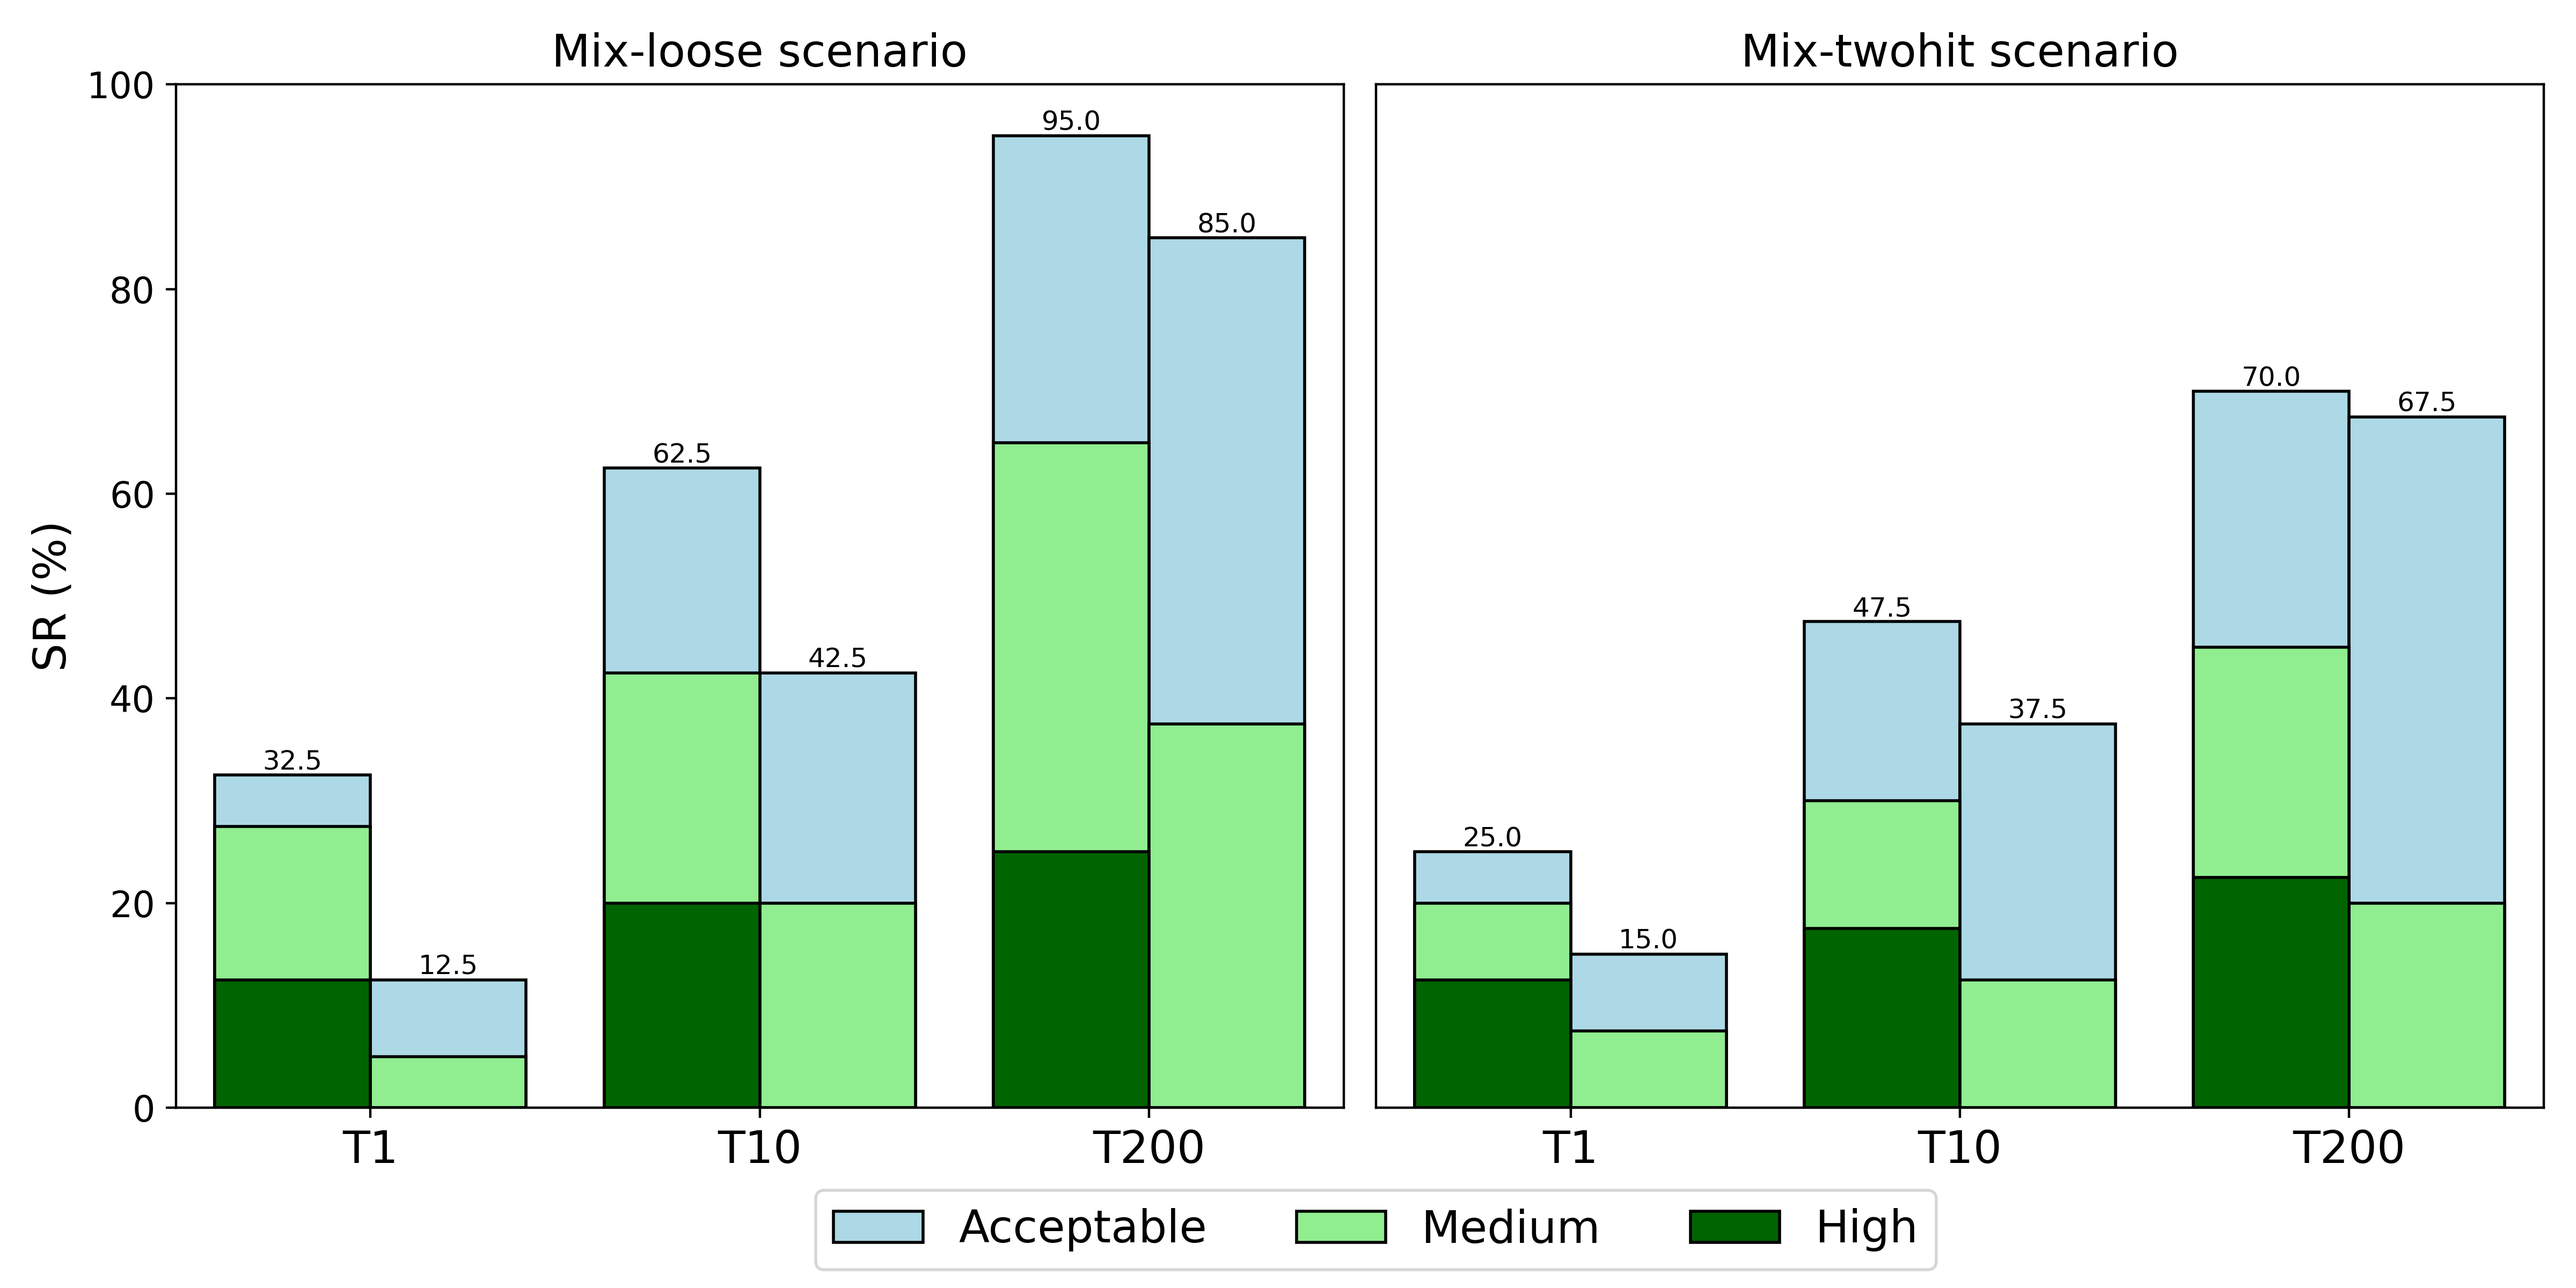
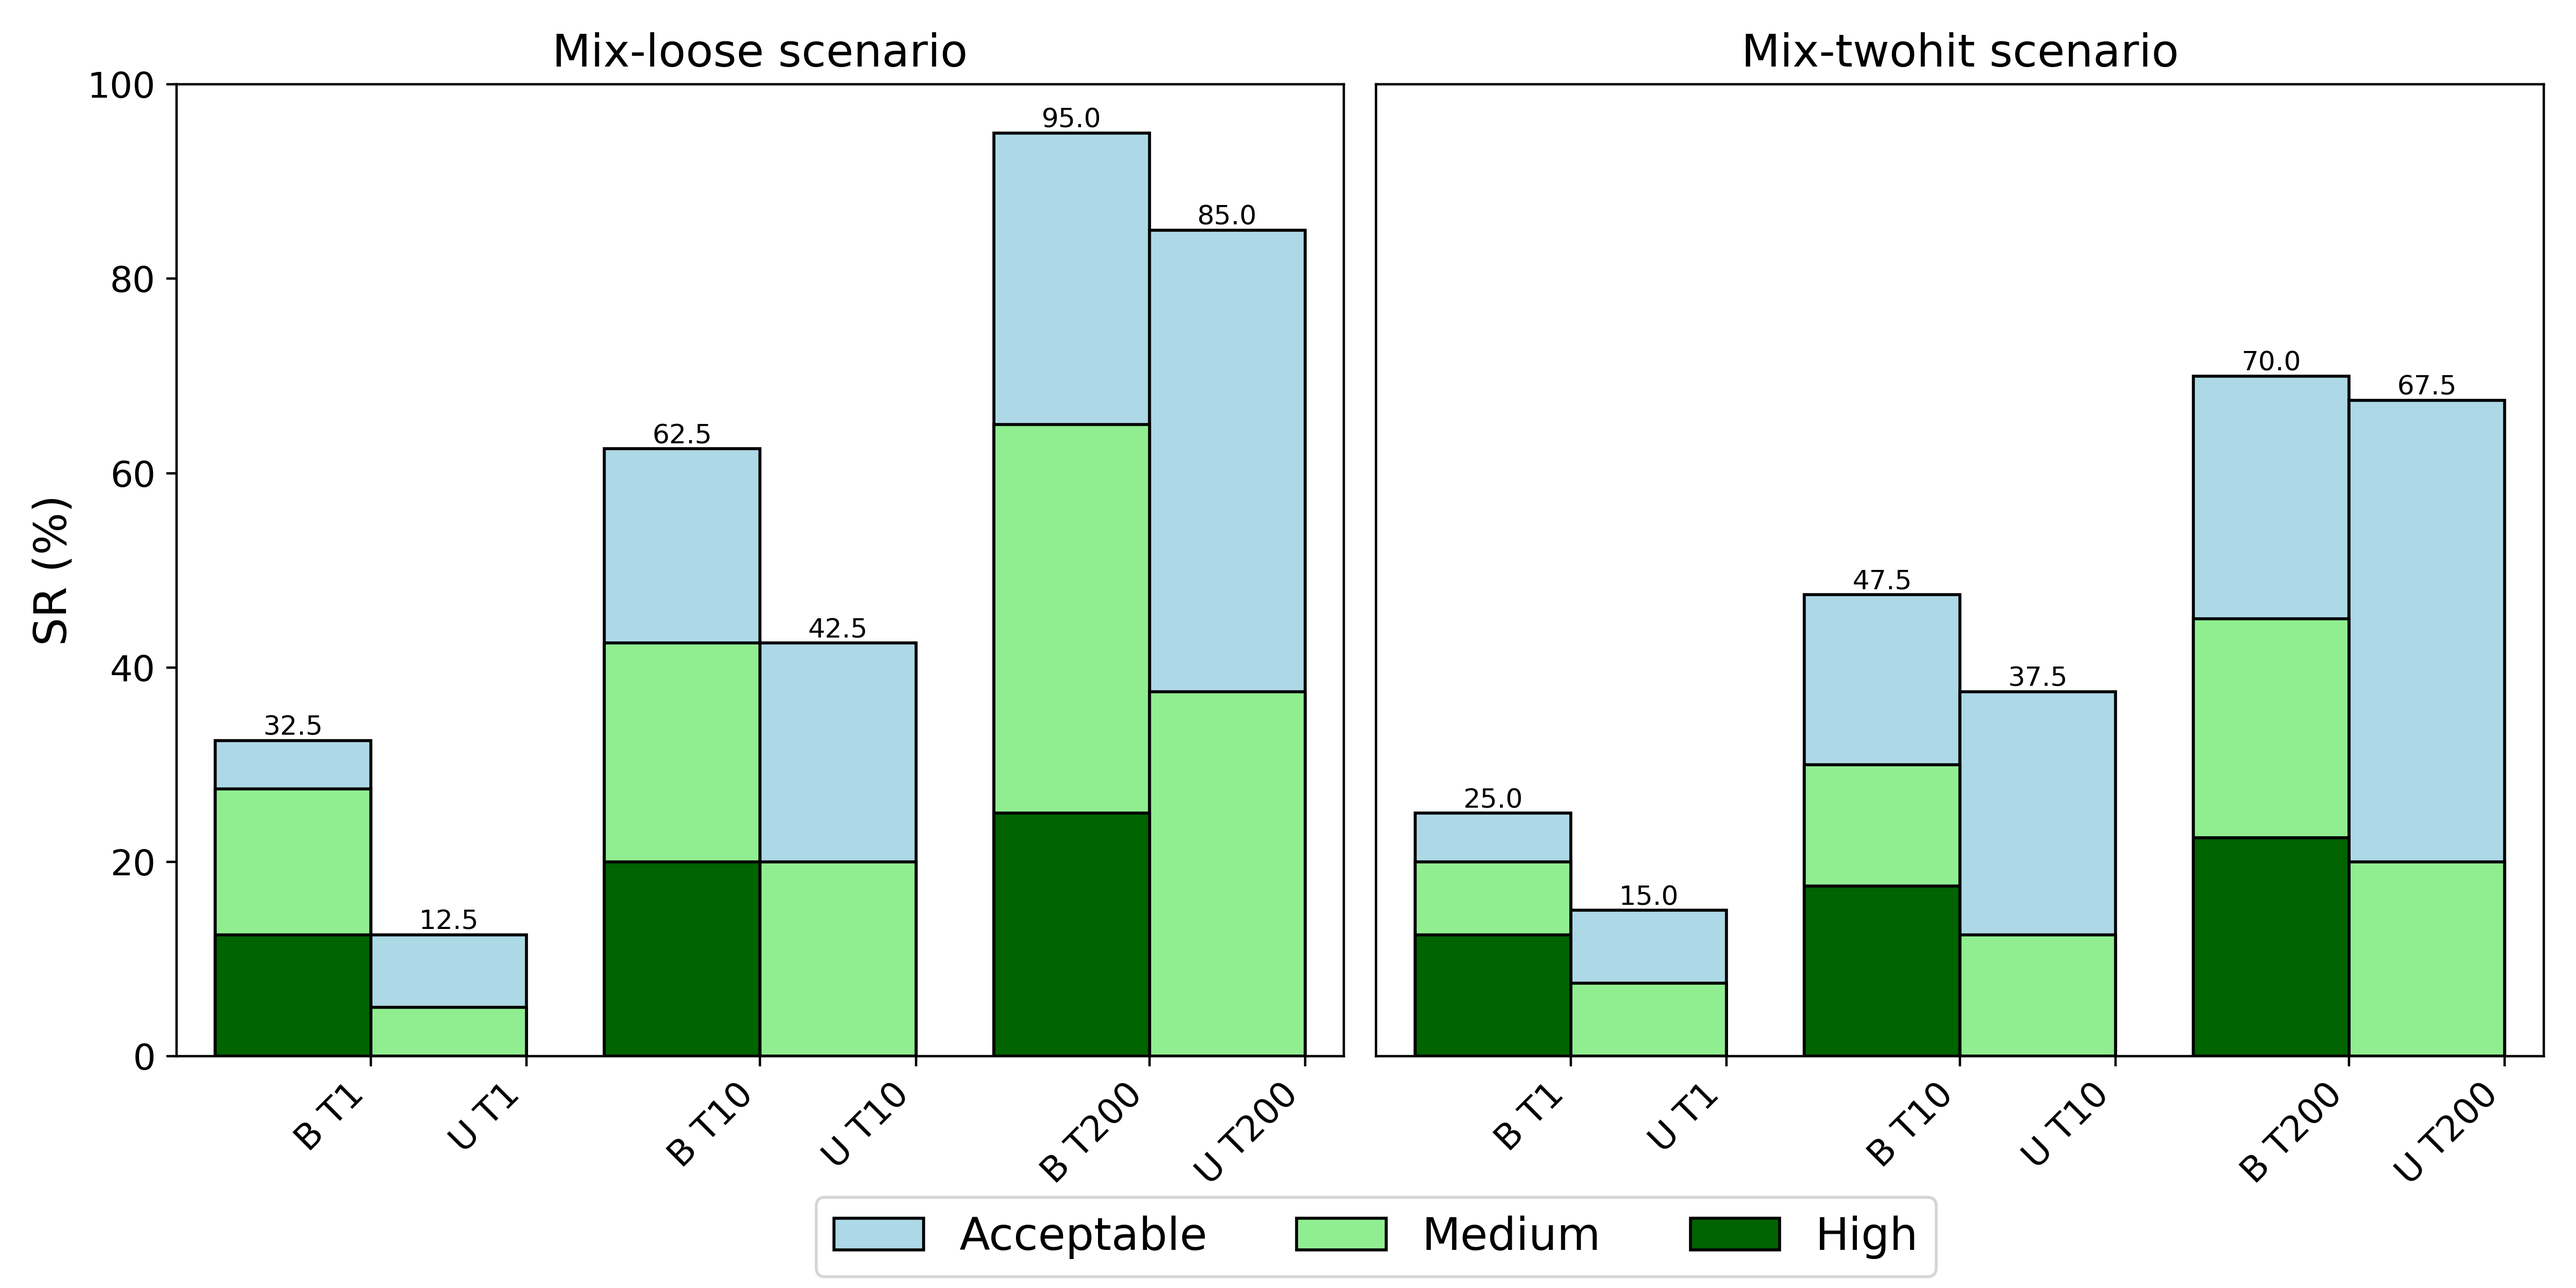
small modifications

diff --git a/analysis/dockq_features_correlation.py b/analysis/dockq_features_correlation.py
@@ -19,7 +19,6 @@ cdr3rmsd_dockq_ib_monom_multim = cdr3rmsd_dockq_filtered[cdr3rmsd_dockq_filtered
 
 fig, axs = plt.subplots(1, 4, figsize=(16.8,5))
 gs = gridspec.GridSpec(4, 1, height_ratios=[1, 1, 1, 1])
-gs.update(wspace=0.5)
 axs[0].scatter(cdr3rmsd_dockq_ib["min_cdr3_rmsd"], cdr3rmsd_dockq_ib["max_dockq"], color="purple", label="IB", marker="o", alpha=0.5, edgecolors="black")
 axs[0].scatter(cdr3rmsd_dockq_ib_monom["min_cdr3_rmsd"], cdr3rmsd_dockq_ib_monom["max_dockq"], color="purple", label="IBMo", marker="^", alpha=0.5, edgecolors="black")
 axs[0].scatter(cdr3rmsd_dockq_ib_multim["min_cdr3_rmsd"], cdr3rmsd_dockq_ib_multim["max_dockq"], color="purple", label="IBMu", marker="s", alpha=0.5, edgecolors="black")
@@ -59,7 +58,6 @@ axs[1].scatter(cdr3rmsd_dockq_ib_monom["min_cdr3_rmsd"], cdr3rmsd_dockq_ib_monom
 axs[1].scatter(cdr3rmsd_dockq_ib_multim["min_cdr3_rmsd"], cdr3rmsd_dockq_ib_multim["max_dockq"], color="purple", label="IBMu", marker="s", alpha=0.5, edgecolors="black")
 axs[1].scatter(cdr3rmsd_dockq_ib_monom_multim["min_cdr3_rmsd"], cdr3rmsd_dockq_ib_monom_multim["max_dockq"], color="purple", label="IBMM", marker="x", alpha=0.5)
 axs[1].set_xlabel("Min CDR3 RMSD", size = 18)
-#axs[1].set_ylabel("Max DockQ in top10 models", size = 18)
 
 # correlations
 corr_ib = np.corrcoef(cdr3rmsd_dockq_ib["min_cdr3_rmsd"], cdr3rmsd_dockq_ib["max_dockq"])[0,1]
@@ -94,7 +92,8 @@ axs[2].scatter(repr_df["paratope_represented"], loose_dockq[loose_dockq["ensembl
 axs[2].scatter(repr_df["paratope_represented"], loose_dockq[loose_dockq["ensemble"] == "IBMoMu"]["max_dockq"], color="blue", label="IBMM", marker="x", alpha=0.5)
 axs[2].set_title(f"Loose Interface", size = 18)
 axs[2].set_xlabel("$F_{para}$", size = 18)
-# axs[1].set_ylabel("Max DockQ in top10 models", size = 15)
+axs[2].set_ylabel("Max DockQ in top10 models", size = 18)
+
 # #we calculate the correlation and plot it at the top left corner
 corr_ib = np.corrcoef(repr_df["paratope_represented"], loose_dockq[loose_dockq["ensemble"] == "IB"]["max_dockq"])[0,1]
 corr_ib_monom = np.corrcoef(repr_df["paratope_represented"], loose_dockq[loose_dockq["ensemble"] == "IBMo"]["max_dockq"])[0,1]
@@ -136,8 +135,7 @@ axs[3].axhline(y=0.23, color="black", linestyle="--", alpha=0.5)
 
 for i in range(4):
     axs[i].set_ylim(-0.02,1)
-    if i != 0:
-        # remove yticks
+    if i not in [0, 2]:
         axs[i].set_yticks([])
 #plt.savefig(Path("figures", "dockq_paratope_represented_correlation_top10.png"))
 # putting a) and b) text

diff --git a/analysis/haddock_docking_sr_scenario_analysis.py b/analysis/haddock_docking_sr_scenario_analysis.py
@@ -447,8 +447,8 @@ for j, sr in enumerate(["acc_sr", "med_sr", "high_sr"]):
 # we set the x ticks and labels
 for i in range(2):
     axs[i].set_ylim(0, 100)
-    axs[i].set_xticks(bound_bars)
-    axs[i].set_xticklabels(["T1", "T10", "T200"], size = 15)
+    axs[i].set_xticks([el for el in bound_bars] + [el + 0.4 for el in bound_bars])
+    axs[i].set_xticklabels(["B T1", "B T10", "B T200", "U T1", "U T10", "U T200" ], rotation = 45, ha = "right", size = 12)
 #we plot the name of the stages
 axs[0].set_title("Mix-loose scenario", fontsize = 15)
 axs[1].set_title("Mix-twohit scenario", fontsize = 15)
@@ -459,8 +459,8 @@ axs[0].set_yticks([0, 20, 40, 60, 80, 100])
 axs[0].set_yticklabels([0, 20, 40, 60, 80, 100], size = 12)
 handles, labels = axs[0].get_legend_handles_labels()
 plt.tight_layout()
-plt.subplots_adjust(bottom=0.14)
-plt.legend(handles, labels, loc = "lower center", fontsize = 15, ncol = 3, bbox_to_anchor=(-0.0, -0.18))
+plt.subplots_adjust(bottom=0.18)
+plt.legend(handles, labels, loc = "lower center", fontsize = 15, ncol = 3, bbox_to_anchor=(-0.0, -0.25))
 plt.savefig(Path("figures", "SI_figure6.png"), dpi=400)
 
 sr_data_emref = sr_data[sr_data["stage"]=="emref"]
